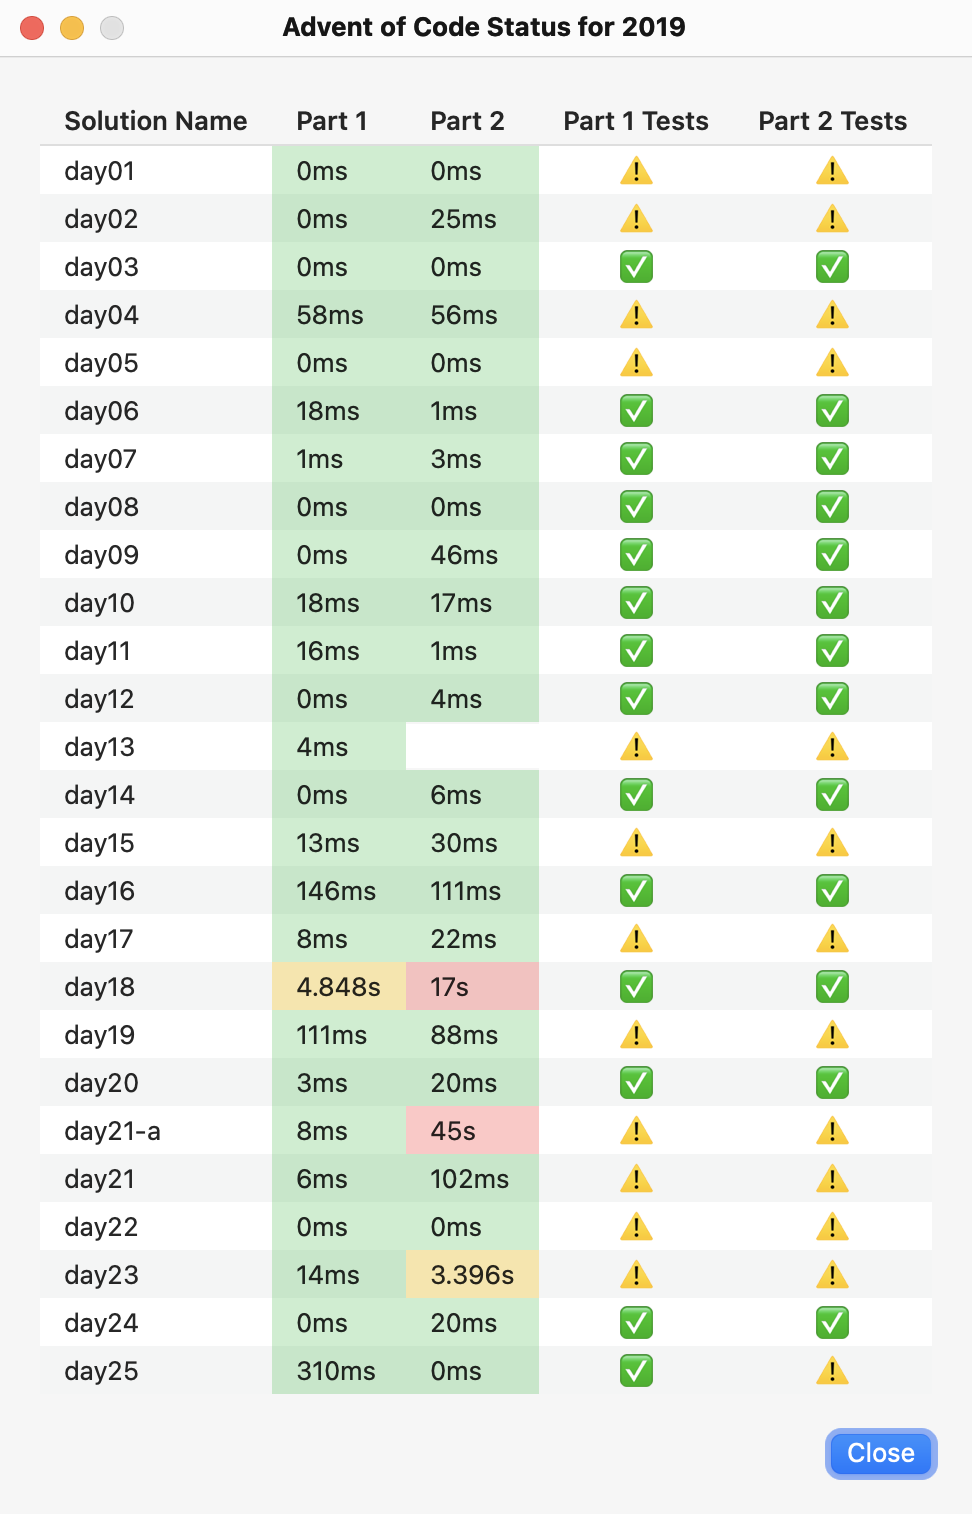
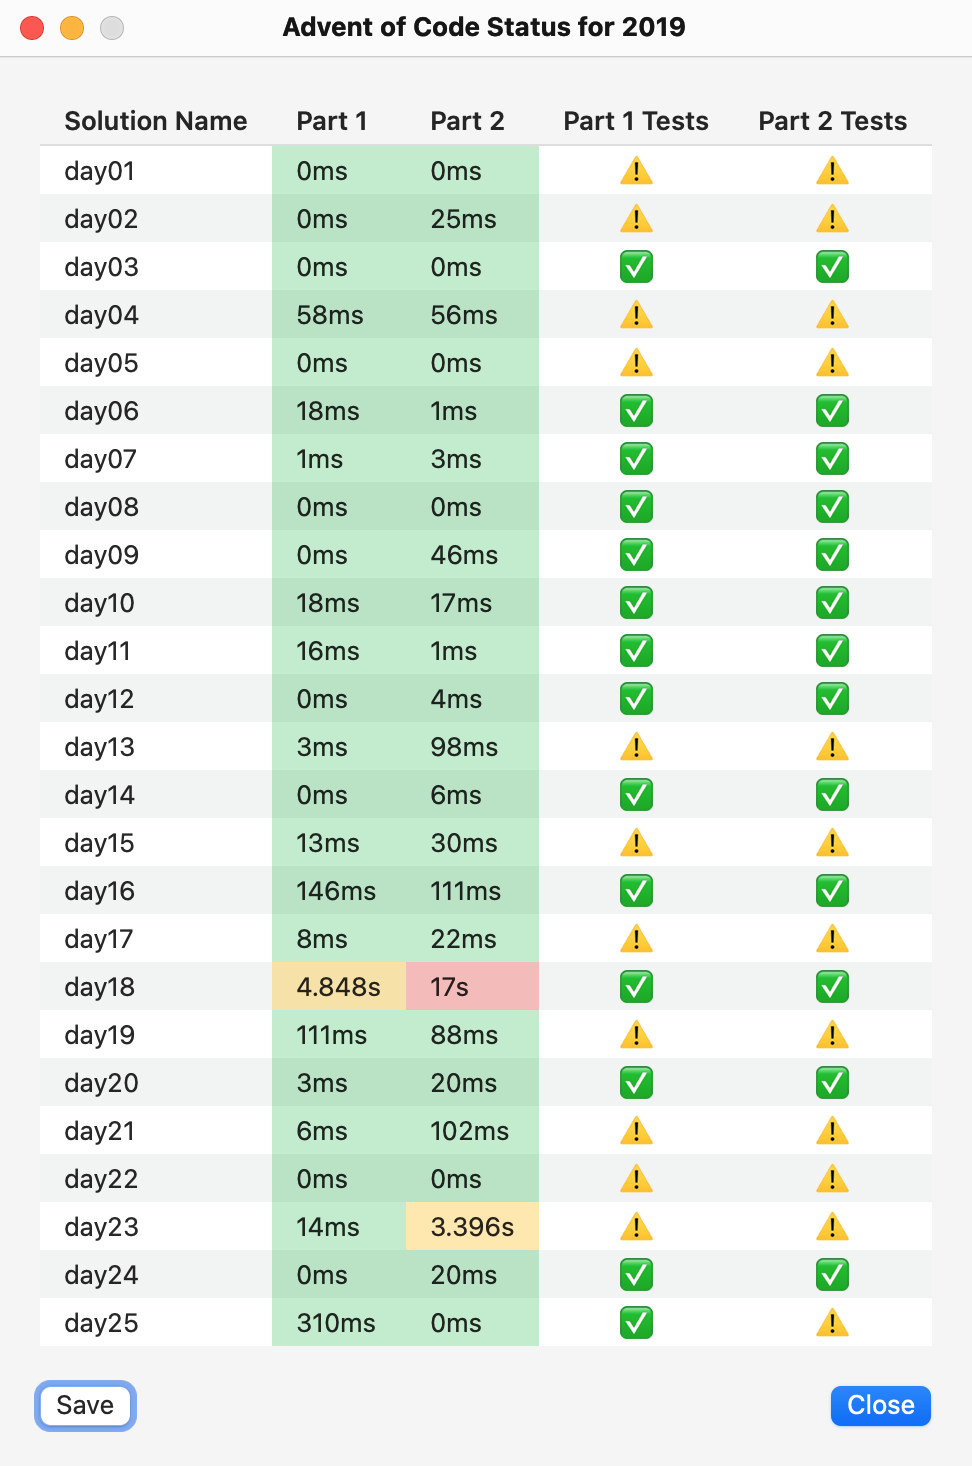
2018 day13 - decoupled solution from animation.
1. Cloned part2 into part3.
2. Removed all animation from part2.
3. Called part3 after part2.
4. This greatly reduces the part2 runtime.
5. This allows adventOfCode gather to correctly find the part2
   sollution time.

diff --git a/2019/day13/Sources/main.swift b/2019/day13/Sources/main.swift
@@ -93,29 +93,35 @@ struct ArcadeCabinet {
         return map.reduce( 0, { $0 + $1.filter( { $0 == type } ).count } )
     }
     
-    mutating func play() throws -> Int {
+    mutating func play( display: Bool = false ) throws -> Int {
         computer.inputs = [ ( ballPos.x - paddlePos.x ).signum() ]
         while !computerHalted {
             while let ( position, type ) = try move() {
                 map[position.y][position.x] = type
-                Terminal.move( to: position )
+                if display { Terminal.move( to: position ) }
                 switch type {
                 case .ball:
-                    print( type.asString(), separator: "", terminator: "" )
                     computer.inputs = [ ( ballPos.x - paddlePos.x ).signum() ]
-                    usleep( 25000 )
-                    fflush(stdout)
+                    if display {
+                        print( type.asString(), separator: "", terminator: "" )
+                        usleep( 25000 )
+                        fflush(stdout)
+                    }
                 case .paddle:
-                    print( type.asString(), separator: "", terminator: "" )
+                    if display { print( type.asString(), separator: "", terminator: "" ) }
                 case .empty:
-                    print( type.asString(), separator: "", terminator: "" )
+                    if display { print( type.asString(), separator: "", terminator: "" ) }
                 default:
-                    Terminal.move( to: Point2D( x: 0, y: height + 2 ) )
-                    print( "Unexpected \(type) at \(position)" )
+                    if display {
+                        Terminal.move( to: Point2D( x: 0, y: height + 2 ) )
+                        print( "Unexpected \(type) at \(position)" )
+                    }
                 }
             }
-            Terminal.move(to: Point2D( x: 0, y: height ) )
-            print( "Score: \(score)" )
+            if display {
+                Terminal.move(to: Point2D( x: 0, y: height ) )
+                print( "Score: \(score)" )
+            }
         }
         
         return score
@@ -149,13 +155,20 @@ func part1( input: AOCinput ) -> String {
 
 func part2( input: AOCinput ) -> String {
     var cabinet = parse( input: input )
+    let finalScore = try! cabinet.play()
+
+    return "\(finalScore)"
+}
+
+func part3( input: AOCinput ) -> String {
+    var cabinet = parse( input: input )
     
     Terminal.clearScreen()
     Terminal.move( to: Point2D(x: 0, y: 0 ) )
     print( cabinet.asString )
     print( "Score: \(cabinet.score)" )
 
-    let finalScore = try! cabinet.play()
+    let finalScore = try! cabinet.play( display: true )
 
     Terminal.move(to: Point2D( x: 0, y: cabinet.height + 2 ) )
     return "\(finalScore)"
@@ -167,3 +180,4 @@ try runTests( part1: part1 )
 try runTests( part2: part2 )
 try solve( part1: part1 )
 try solve( part2: part2 )
+try solve( part2: part3, label: "Display" )

diff --git a/2019/README.md b/2019/README.md
@@ -5,8 +5,6 @@
 ## Day 13 - Care Package
 This is the Breakout game implemented in Intcode.  My solution provides animation of part2, if run in a terminal that supports VT100 emulation.  It would be nice to produce an animated image of that as well.
 
-Additionally, the animation output interferes with `adventOfCode gather`, meaning no results in the status output for part2. It would be nice to decouple the calculation of the results from the animation to prevent this and to record a better time.
-
 ## Day 17 - Set and Forget
 This is the one where the droid has to navigate the scaffolding. For part2, I analyzed my input and detected the patterns by hand.  I would like to implement a version that programmatically detects the patterns.
 
